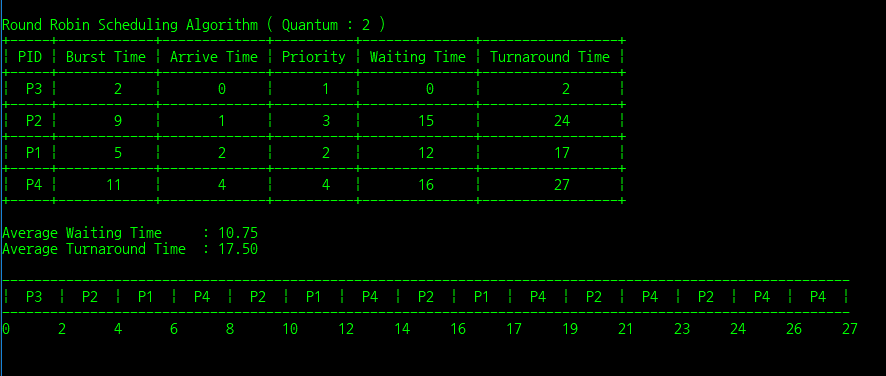
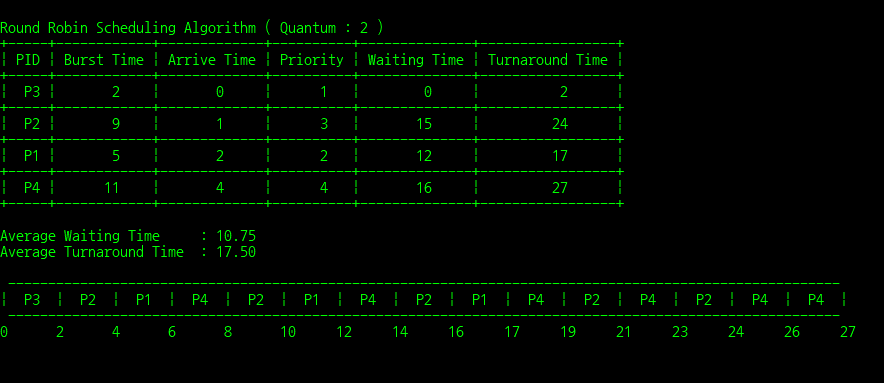
Change RoundRobin Test Image

diff --git a/README.md b/README.md
@@ -32,7 +32,7 @@ Department of Computer Software Engineering
 ### RR (Round Robin)
 - 라운드 로빈 스케쥴링<br/>
 [[코드]](https://github.com/alstn2468/CPU_Scheduling_Simulator/blob/master/CpuSchedulingAlgorithmsModule/RR.h)
-<img src="https://github.com/alstn2468/CPU_Scheduling_Simulator/blob/master/RR.PNG" width="600" height="auto">
+<img src="https://github.com/alstn2468/CPU_Scheduling_Simulator/blob/master/RR.PNG" width="700" height="auto">
 
 ### HRN (Highest Response-Ratio Next)
 - 최상 응답 비율 우선 스케쥴링<br/>
